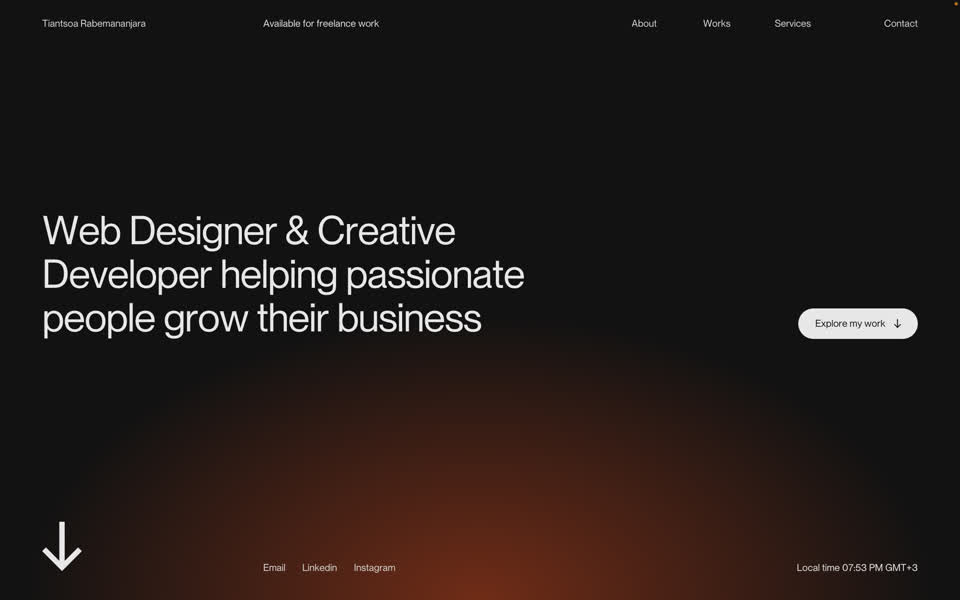
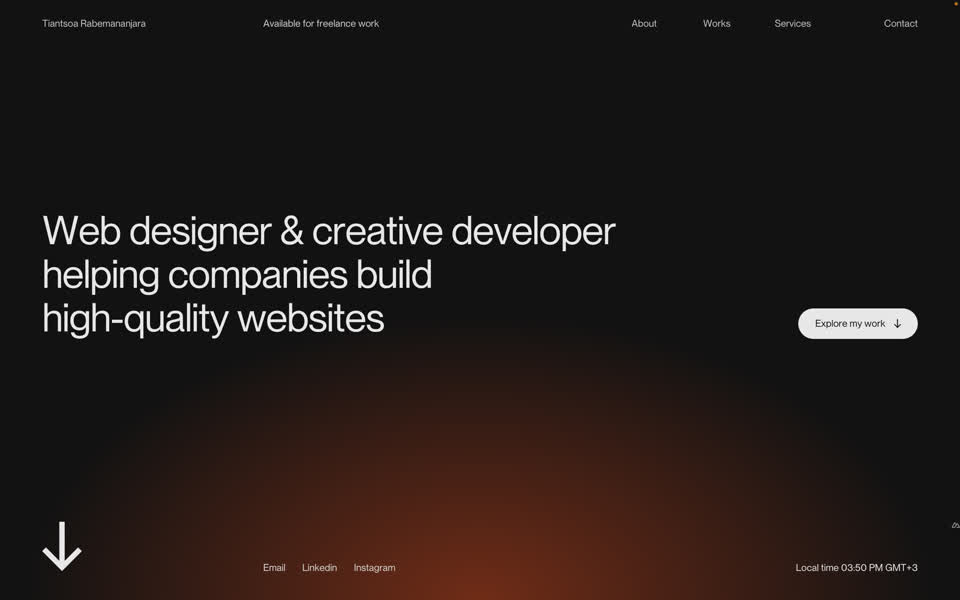
Headline

Changed region(s): [[0.0312, 0.36, 0.6562, 0.57], [0.8125, 0.93, 0.9062, 0.96]]

diff --git a/composables/use-init-script.js b/composables/use-init-script.js
@@ -1,5 +1,5 @@
 export default () => {
-    // Local Time
+    // Lenis scroll
     const { initLenis, destroyLenis } = useLenis()
     // Local Time
     const { initLocalTime, destroyLocalTime } = useLocalTime()

diff --git a/content/index.md b/content/index.md
@@ -13,7 +13,7 @@ email: mailto:tiantsoa.sh@gmail.com
 linkedin: https://www.linkedin.com/in/tiantsoa-rabemananjara-254655152/
 instagram: https://www.instagram.com/tiantsoa_sh/
 ---
-Web designer & creative developer helping passionate people grow their business
+Web designer & creative developer helping companies build high-quality websites
 ::
 
 ::home-about
